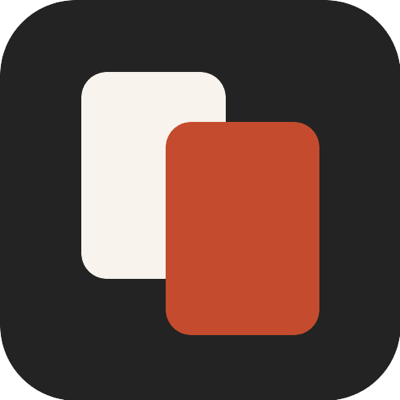
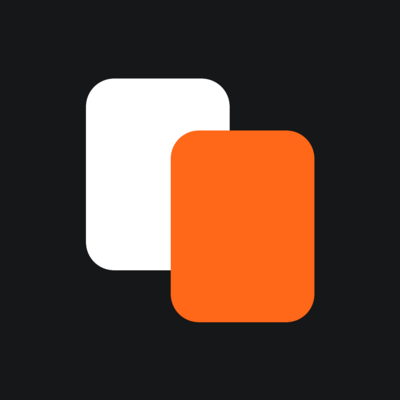
Prepare Nibomo plugin 1.35.0 and refresh branding

diff --git a/README.md b/README.md
@@ -12,7 +12,7 @@ For ChatGPT and Codex, the bundle includes the portable Agent Plugins format and
 
 For Gemini CLI, install with `gemini extensions install https://github.com/kirill-markin/nibomo-plugins`, then use `gemini extensions update nibomo` for future published releases. Follow the [stable-release procedure](docs/publishing.md#public-listings) to verify the release installation metadata or migrate an existing Git/local installation. Adding `--ref=<verified-release-tag>` pins installation and update checks to that tag. Restart the CLI and run `/mcp auth nibomo` to connect your account through browser OAuth. The extension uses automatic OAuth discovery and includes the same three skills. The [existing Gemini gallery entry](https://geminicli.com/extensions/?name=kirill-markinnibomo-plugins) alone does not establish stable installation or updates.
 
-For Antigravity, download `nibomo-1.34.0-antigravity.zip` from the successful **Plugin packages** workflow artifact, extract it into a `nibomo` directory, then run `/plugin install /absolute/path/to/nibomo` in Antigravity CLI. Use the Antigravity archive because the repository root `plugin.json` targets the portable format. See [Google installation and publishing details](docs/publishing.md#google).
+For Antigravity, download `nibomo-1.35.0-antigravity.zip` from the successful **Plugin packages** workflow artifact, extract it into a `nibomo` directory, then run `/plugin install /absolute/path/to/nibomo` in Antigravity CLI. Use the Antigravity archive because the repository root `plugin.json` targets the portable format. See [Google installation and publishing details](docs/publishing.md#google).
 
 Google packages can be installed directly; an installable Antigravity package does not confirm Marketplace approval. Record Nibomo OAuth and study-workflow evidence under the [focused verification policy](docs/publishing.md#real-workflow-verification); package installation alone does not establish those results.
 
